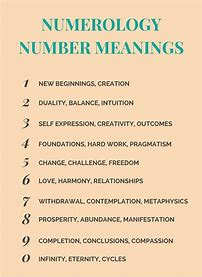
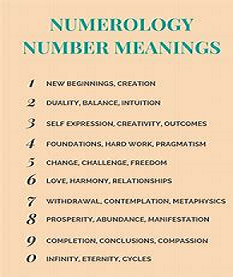
Centered the numbers image.

diff --git a/index.html b/index.html
@@ -49,7 +49,7 @@
     <div id=#addinfo>
       <section id="nums">
         <h2>Here is an Introduction to the numbers:</h2>
-        <img id="numbers" title="Meaning of Numbers" src="media/numberslist3.png" />
+        <img id="numbers" title="Meaning of Numbers" src="media/numberslist3.png" class="center"/>
       </section>
       <section id="hist">  
         <h2>Here is a Brief History of Numerology:</h2>

diff --git a/css/mystyles.css b/css/mystyles.css
@@ -113,6 +113,12 @@ label[for=age-verification] {
   text-align: center;
 }
 
+img.center {
+  display: block;
+  margin-left: auto;
+  margin-right: auto;
+}
+
 #hist {
   text-align: center;
 }
